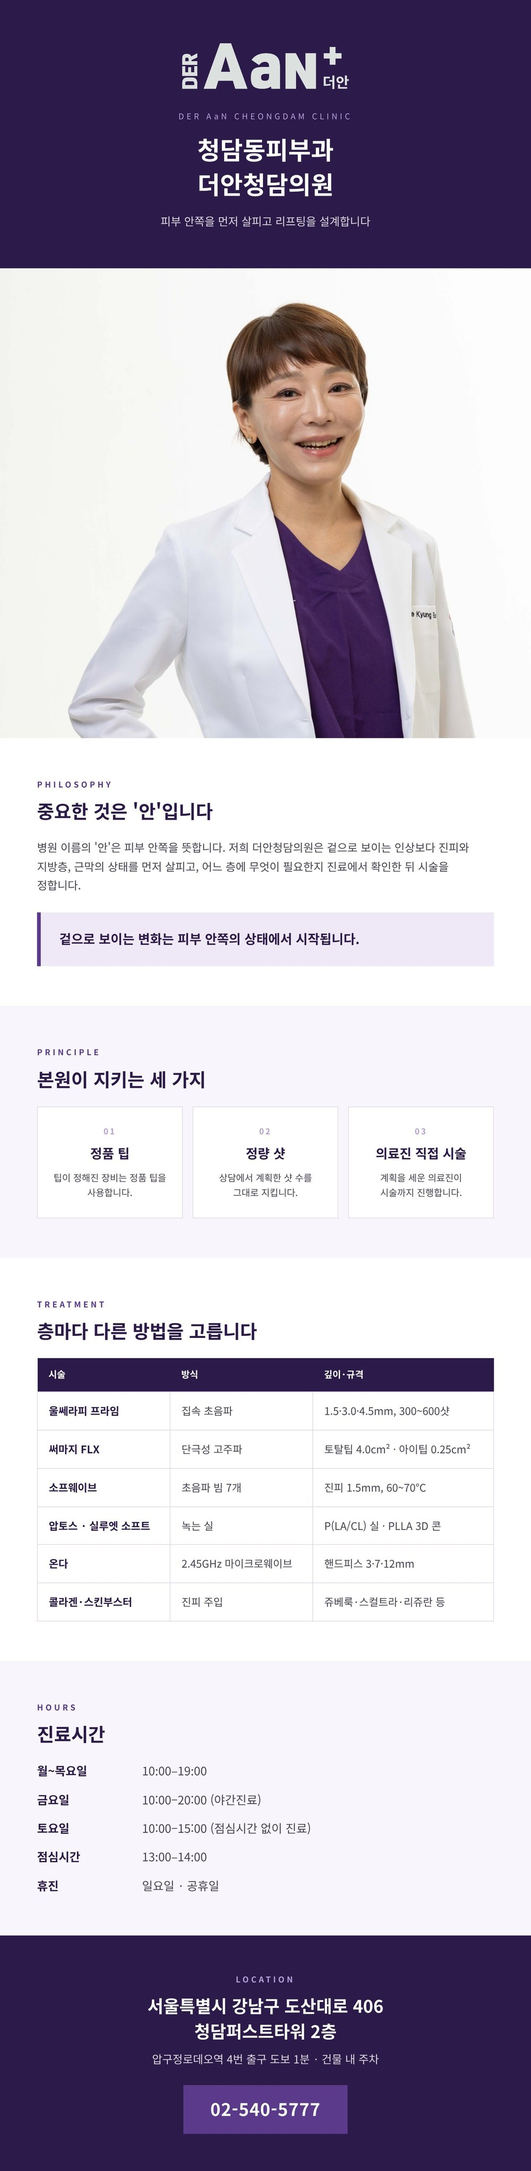
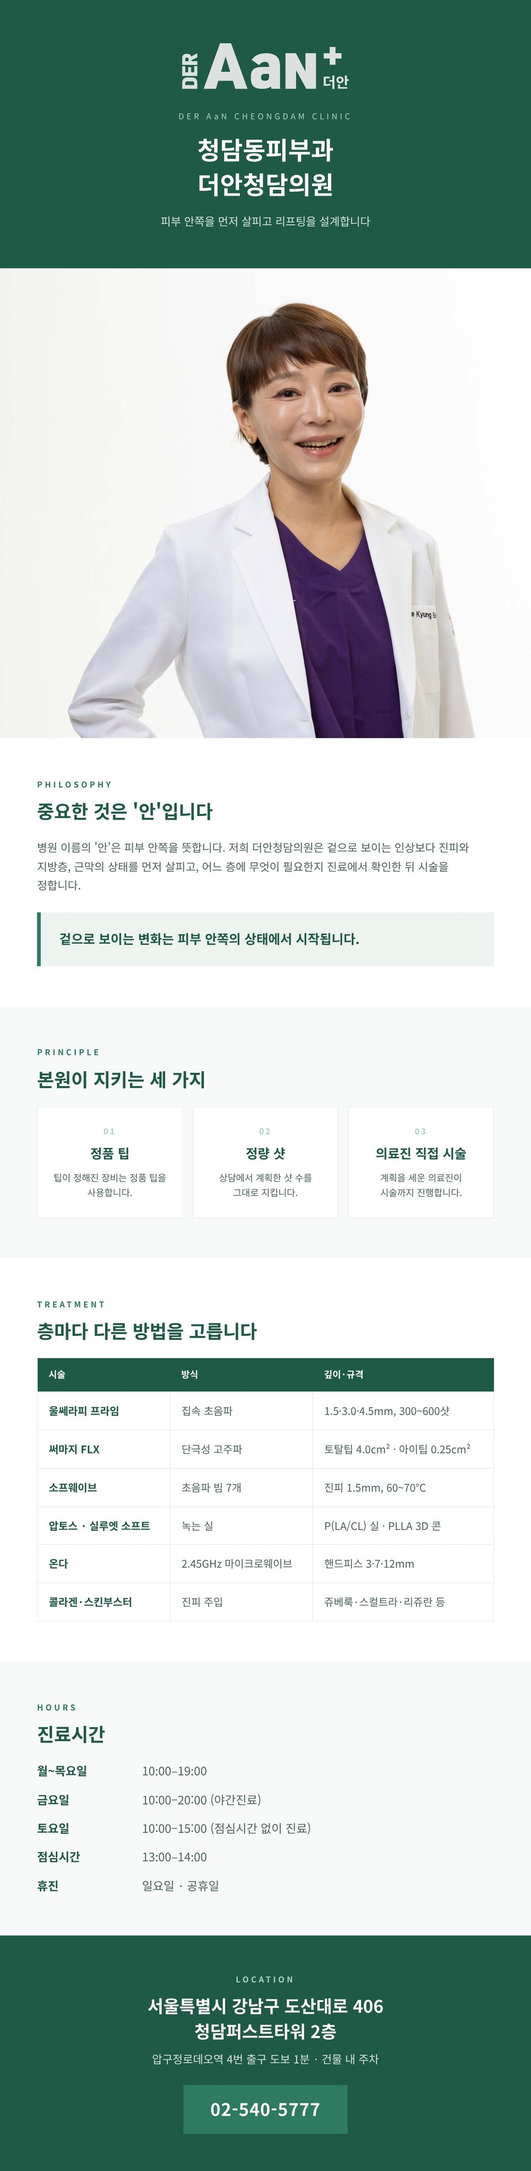
cheongdamskin-info.com: 색을 공식 홈페이지 녹색 계열로(테마·안내 긴 이미지) [skip ci]
Claude-Session: https://claude.ai/code/session_01RNxwkt2NVDZy2iSTnbKGK9

diff --git a/sites/cheongdamskin-info.com/public/index.html b/sites/cheongdamskin-info.com/public/index.html
@@ -9,7 +9,7 @@
 <link rel="canonical" href="https://cheongdamskin-info.com/">
 <meta name="robots" content="index,follow,max-image-preview:large">
 <meta name="application-name" content="청담동피부과ㅣ더안청담의원">
-<meta name="theme-color" content="#5b3a8c">
+<meta name="theme-color" content="#2e7b62">
 
 
 <meta property="og:type" content="website">
@@ -32,7 +32,7 @@
 <link rel="preconnect" href="https://fonts.gstatic.com" crossorigin>
 <link rel="stylesheet" href="https://fonts.googleapis.com/css2?family=Noto+Serif+KR:wght@500;600;700&display=swap">
 <link rel="stylesheet" as="style" crossorigin href="https://cdn.jsdelivr.net/gh/orioncactus/pretendard@v1.3.9/dist/web/variable/pretendardvariable-dynamic-subset.min.css">
-<link rel="stylesheet" href="/assets/site.css?v=7f1d7939">
+<link rel="stylesheet" href="/assets/site.css?v=5098e94f">
 <script type="application/ld+json">{"@context":"https://schema.org","@graph":[{"@type":"WebSite","@id":"https://cheongdamskin-info.com/#website","url":"https://cheongdamskin-info.com/","name":"청담동피부과ㅣ더안청담의원 | 더안청담의원","inLanguage":"ko-KR","publisher":{"@id":"https://cheongdamskin-info.com/#clinic"}},{"@type":"MedicalClinic","@id":"https://cheongdamskin-info.com/#clinic","name":"더안청담의원","alternateName":"DER AaN CHEONGDAM CLINIC","url":"https://cheongdamskin-info.com/","telephone":"+82-2-5405777","image":"https://cheongdamskin-info.com/images/card-1-860.jpg","address":{"@type":"PostalAddress","streetAddress":"도산대로 406 청담퍼스트타워 2층","addressLocality":"강남구","addressRegion":"서울특별시","addressCountry":"KR"},"medicalSpecialty":["Dermatology"],"openingHoursSpecification":[{"@type":"OpeningHoursSpecification","dayOfWeek":["Monday","Tuesday","Wednesday","Thursday"],"opens":"10:00","closes":"19:00"},{"@type":"OpeningHoursSpecification","dayOfWeek":["Friday"],"opens":"10:00","closes":"20:00"},{"@type":"OpeningHoursSpecification","dayOfWeek":["Saturday"],"opens":"10:00","closes":"15:00"}],"sameAs":["https://aanclinic.com/","https://map.naver.com/p/entry/place/1960345900"]},{"@type":"ItemList","name":"더안청담의원 주요 안내","itemListOrder":"https://schema.org/ItemListOrderAscending","numberOfItems":6,"itemListElement":[{"@type":"ListItem","position":1,"name":"청담동피부과 더안청담의원 1","url":"https://cheongdamskin-info.com/treatments/ulthera/","image":"https://cheongdamskin-info.com/images/card-1-860.jpg"},{"@type":"ListItem","position":2,"name":"청담동피부과 더안청담의원 2","url":"https://cheongdamskin-info.com/treatments/thermage/","image":"https://cheongdamskin-info.com/images/card-2-860.jpg"},{"@type":"ListItem","position":3,"name":"청담동피부과 더안청담의원 3","url":"https://cheongdamskin-info.com/treatments/sofwave/","image":"https://cheongdamskin-info.com/images/card-3-860.jpg"},{"@type":"ListItem","position":4,"name":"청담동피부과 더안청담의원 4","url":"https://cheongdamskin-info.com/treatments/thread-lifting/","image":"https://cheongdamskin-info.com/images/card-4-860.jpg"},{"@type":"ListItem","position":5,"name":"청담동피부과 더안청담의원 5","url":"https://cheongdamskin-info.com/treatments/onda-lifting/","image":"https://cheongdamskin-info.com/images/card-5-860.jpg"},{"@type":"ListItem","position":6,"name":"청담동피부과 더안청담의원 6","url":"https://cheongdamskin-info.com/treatments/skin-booster/","image":"https://cheongdamskin-info.com/images/card-6-860.jpg"}]}]}</script>
 
 </head>

diff --git a/sites/cheongdamskin-info.com/public/journal/skin-booster-01/index.html b/sites/cheongdamskin-info.com/public/journal/skin-booster-01/index.html
@@ -9,7 +9,7 @@
 <link rel="canonical" href="https://cheongdamskin-info.com/journal/skin-booster-01/">
 <meta name="robots" content="index,follow,max-image-preview:large">
 <meta name="application-name" content="청담동피부과ㅣ더안청담의원">
-<meta name="theme-color" content="#5b3a8c">
+<meta name="theme-color" content="#2e7b62">
 
 
 <meta property="og:type" content="article">
@@ -33,7 +33,7 @@
 <link rel="preconnect" href="https://fonts.gstatic.com" crossorigin>
 <link rel="stylesheet" href="https://fonts.googleapis.com/css2?family=Noto+Serif+KR:wght@500;600;700&display=swap">
 <link rel="stylesheet" as="style" crossorigin href="https://cdn.jsdelivr.net/gh/orioncactus/pretendard@v1.3.9/dist/web/variable/pretendardvariable-dynamic-subset.min.css">
-<link rel="stylesheet" href="/assets/site.css?v=7f1d7939">
+<link rel="stylesheet" href="/assets/site.css?v=5098e94f">
 <script type="application/ld+json">{"@context":"https://schema.org","@graph":[{"@type":"WebSite","@id":"https://cheongdamskin-info.com/#website","url":"https://cheongdamskin-info.com/","name":"청담동피부과ㅣ더안청담의원 | 더안청담의원","inLanguage":"ko-KR","publisher":{"@id":"https://cheongdamskin-info.com/#clinic"}},{"@type":"MedicalClinic","@id":"https://cheongdamskin-info.com/#clinic","name":"더안청담의원","alternateName":"DER AaN CHEONGDAM CLINIC","url":"https://cheongdamskin-info.com/","telephone":"+82-2-5405777","image":"https://cheongdamskin-info.com/images/og-default.jpg","address":{"@type":"PostalAddress","streetAddress":"도산대로 406 청담퍼스트타워 2층","addressLocality":"강남구","addressRegion":"서울특별시","addressCountry":"KR"},"medicalSpecialty":["Dermatology"],"openingHoursSpecification":[{"@type":"OpeningHoursSpecification","dayOfWeek":["Monday","Tuesday","Wednesday","Thursday"],"opens":"10:00","closes":"19:00"},{"@type":"OpeningHoursSpecification","dayOfWeek":["Friday"],"opens":"10:00","closes":"20:00"},{"@type":"OpeningHoursSpecification","dayOfWeek":["Saturday"],"opens":"10:00","closes":"15:00"}],"sameAs":["https://aanclinic.com/","https://map.naver.com/p/entry/place/1960345900"]},{"@type":"Article","headline":"청담스킨부스터 고르기 전에 알아 둘 콜라겐부스터와 스킨부스터의 차이와 시술 간격","description":"청담스킨부스터를 알아보시는 분께 콜라겐 생성을 돕는 제품과 피부 결·수분을 돕는 제품의 차이, 제품을 고르는 기준, 20~40분 시술과 2~4주 간격을 정리했습니다.","inLanguage":"ko-KR","mainEntityOfPage":{"@type":"WebPage","@id":"https://cheongdamskin-info.com/journal/skin-booster-01/"},"url":"https://cheongdamskin-info.com/journal/skin-booster-01/","image":"https://cheongdamskin-info.com/images/og-default.jpg","datePublished":"2026-11-28","dateModified":"2026-11-28","author":{"@type":"Organization","name":"더안청담의원 진료 안내"},"publisher":{"@id":"https://cheongdamskin-info.com/#clinic"},"articleSection":"스킨부스터"}]}</script>
 
 </head>

diff --git a/sites/cheongdamskin-info.com/public/journal/onda-lifting-01/index.html b/sites/cheongdamskin-info.com/public/journal/onda-lifting-01/index.html
@@ -9,7 +9,7 @@
 <link rel="canonical" href="https://cheongdamskin-info.com/journal/onda-lifting-01/">
 <meta name="robots" content="index,follow,max-image-preview:large">
 <meta name="application-name" content="청담동피부과ㅣ더안청담의원">
-<meta name="theme-color" content="#5b3a8c">
+<meta name="theme-color" content="#2e7b62">
 
 
 <meta property="og:type" content="article">
@@ -33,7 +33,7 @@
 <link rel="preconnect" href="https://fonts.gstatic.com" crossorigin>
 <link rel="stylesheet" href="https://fonts.googleapis.com/css2?family=Noto+Serif+KR:wght@500;600;700&display=swap">
 <link rel="stylesheet" as="style" crossorigin href="https://cdn.jsdelivr.net/gh/orioncactus/pretendard@v1.3.9/dist/web/variable/pretendardvariable-dynamic-subset.min.css">
-<link rel="stylesheet" href="/assets/site.css?v=7f1d7939">
+<link rel="stylesheet" href="/assets/site.css?v=5098e94f">
 <script type="application/ld+json">{"@context":"https://schema.org","@graph":[{"@type":"WebSite","@id":"https://cheongdamskin-info.com/#website","url":"https://cheongdamskin-info.com/","name":"청담동피부과ㅣ더안청담의원 | 더안청담의원","inLanguage":"ko-KR","publisher":{"@id":"https://cheongdamskin-info.com/#clinic"}},{"@type":"MedicalClinic","@id":"https://cheongdamskin-info.com/#clinic","name":"더안청담의원","alternateName":"DER AaN CHEONGDAM CLINIC","url":"https://cheongdamskin-info.com/","telephone":"+82-2-5405777","image":"https://cheongdamskin-info.com/images/og-default.jpg","address":{"@type":"PostalAddress","streetAddress":"도산대로 406 청담퍼스트타워 2층","addressLocality":"강남구","addressRegion":"서울특별시","addressCountry":"KR"},"medicalSpecialty":["Dermatology"],"openingHoursSpecification":[{"@type":"OpeningHoursSpecification","dayOfWeek":["Monday","Tuesday","Wednesday","Thursday"],"opens":"10:00","closes":"19:00"},{"@type":"OpeningHoursSpecification","dayOfWeek":["Friday"],"opens":"10:00","closes":"20:00"},{"@type":"OpeningHoursSpecification","dayOfWeek":["Saturday"],"opens":"10:00","closes":"15:00"}],"sameAs":["https://aanclinic.com/","https://map.naver.com/p/entry/place/1960345900"]},{"@type":"Article","headline":"청담온다리프팅 상담 전에 알아 둘 마이크로웨이브의 원리와 핸드피스 세 가지의 쓰임","description":"청담온다리프팅을 알아보시는 분께 2.45GHz 마이크로웨이브가 초음파·고주파와 어떻게 다른지, 3·7·12mm 핸드피스의 쓰임, 5°C 냉각과 2~4주 간격을 정리했습니다.","inLanguage":"ko-KR","mainEntityOfPage":{"@type":"WebPage","@id":"https://cheongdamskin-info.com/journal/onda-lifting-01/"},"url":"https://cheongdamskin-info.com/journal/onda-lifting-01/","image":"https://cheongdamskin-info.com/images/og-default.jpg","datePublished":"2026-11-28","dateModified":"2026-11-28","author":{"@type":"Organization","name":"더안청담의원 진료 안내"},"publisher":{"@id":"https://cheongdamskin-info.com/#clinic"},"articleSection":"온다리프팅"}]}</script>
 
 </head>

diff --git a/sites/cheongdamskin-info.com/public/journal/thread-lifting-01/index.html b/sites/cheongdamskin-info.com/public/journal/thread-lifting-01/index.html
@@ -9,7 +9,7 @@
 <link rel="canonical" href="https://cheongdamskin-info.com/journal/thread-lifting-01/">
 <meta name="robots" content="index,follow,max-image-preview:large">
 <meta name="application-name" content="청담동피부과ㅣ더안청담의원">
-<meta name="theme-color" content="#5b3a8c">
+<meta name="theme-color" content="#2e7b62">
 
 
 <meta property="og:type" content="article">
@@ -33,7 +33,7 @@
 <link rel="preconnect" href="https://fonts.gstatic.com" crossorigin>
 <link rel="stylesheet" href="https://fonts.googleapis.com/css2?family=Noto+Serif+KR:wght@500;600;700&display=swap">
 <link rel="stylesheet" as="style" crossorigin href="https://cdn.jsdelivr.net/gh/orioncactus/pretendard@v1.3.9/dist/web/variable/pretendardvariable-dynamic-subset.min.css">
-<link rel="stylesheet" href="/assets/site.css?v=7f1d7939">
+<link rel="stylesheet" href="/assets/site.css?v=5098e94f">
 <script type="application/ld+json">{"@context":"https://schema.org","@graph":[{"@type":"WebSite","@id":"https://cheongdamskin-info.com/#website","url":"https://cheongdamskin-info.com/","name":"청담동피부과ㅣ더안청담의원 | 더안청담의원","inLanguage":"ko-KR","publisher":{"@id":"https://cheongdamskin-info.com/#clinic"}},{"@type":"MedicalClinic","@id":"https://cheongdamskin-info.com/#clinic","name":"더안청담의원","alternateName":"DER AaN CHEONGDAM CLINIC","url":"https://cheongdamskin-info.com/","telephone":"+82-2-5405777","image":"https://cheongdamskin-info.com/images/og-default.jpg","address":{"@type":"PostalAddress","streetAddress":"도산대로 406 청담퍼스트타워 2층","addressLocality":"강남구","addressRegion":"서울특별시","addressCountry":"KR"},"medicalSpecialty":["Dermatology"],"openingHoursSpecification":[{"@type":"OpeningHoursSpecification","dayOfWeek":["Monday","Tuesday","Wednesday","Thursday"],"opens":"10:00","closes":"19:00"},{"@type":"OpeningHoursSpecification","dayOfWeek":["Friday"],"opens":"10:00","closes":"20:00"},{"@type":"OpeningHoursSpecification","dayOfWeek":["Saturday"],"opens":"10:00","closes":"15:00"}],"sameAs":["https://aanclinic.com/","https://map.naver.com/p/entry/place/1960345900"]},{"@type":"Article","headline":"청담실리프팅 받기 전에 확인할 압토스와 실루엣 소프트의 차이와 회복 기간","description":"청담실리프팅을 알아보시는 분께 압토스의 P(LA/CL) 실과 실루엣 소프트의 PLLA 3D 콘이 어떻게 다른지, 실의 길이와 콘 수, 국소 마취와 3~7일 회복을 정리했습니다.","inLanguage":"ko-KR","mainEntityOfPage":{"@type":"WebPage","@id":"https://cheongdamskin-info.com/journal/thread-lifting-01/"},"url":"https://cheongdamskin-info.com/journal/thread-lifting-01/","image":"https://cheongdamskin-info.com/images/og-default.jpg","datePublished":"2026-11-28","dateModified":"2026-11-28","author":{"@type":"Organization","name":"더안청담의원 진료 안내"},"publisher":{"@id":"https://cheongdamskin-info.com/#clinic"},"articleSection":"실리프팅"}]}</script>
 
 </head>

diff --git a/sites/cheongdamskin-info.com/public/journal/sofwave-01/index.html b/sites/cheongdamskin-info.com/public/journal/sofwave-01/index.html
@@ -9,7 +9,7 @@
 <link rel="canonical" href="https://cheongdamskin-info.com/journal/sofwave-01/">
 <meta name="robots" content="index,follow,max-image-preview:large">
 <meta name="application-name" content="청담동피부과ㅣ더안청담의원">
-<meta name="theme-color" content="#5b3a8c">
+<meta name="theme-color" content="#2e7b62">
 
 
 <meta property="og:type" content="article">
@@ -33,7 +33,7 @@
 <link rel="preconnect" href="https://fonts.gstatic.com" crossorigin>
 <link rel="stylesheet" href="https://fonts.googleapis.com/css2?family=Noto+Serif+KR:wght@500;600;700&display=swap">
 <link rel="stylesheet" as="style" crossorigin href="https://cdn.jsdelivr.net/gh/orioncactus/pretendard@v1.3.9/dist/web/variable/pretendardvariable-dynamic-subset.min.css">
-<link rel="stylesheet" href="/assets/site.css?v=7f1d7939">
+<link rel="stylesheet" href="/assets/site.css?v=5098e94f">
 <script type="application/ld+json">{"@context":"https://schema.org","@graph":[{"@type":"WebSite","@id":"https://cheongdamskin-info.com/#website","url":"https://cheongdamskin-info.com/","name":"청담동피부과ㅣ더안청담의원 | 더안청담의원","inLanguage":"ko-KR","publisher":{"@id":"https://cheongdamskin-info.com/#clinic"}},{"@type":"MedicalClinic","@id":"https://cheongdamskin-info.com/#clinic","name":"더안청담의원","alternateName":"DER AaN CHEONGDAM CLINIC","url":"https://cheongdamskin-info.com/","telephone":"+82-2-5405777","image":"https://cheongdamskin-info.com/images/og-default.jpg","address":{"@type":"PostalAddress","streetAddress":"도산대로 406 청담퍼스트타워 2층","addressLocality":"강남구","addressRegion":"서울특별시","addressCountry":"KR"},"medicalSpecialty":["Dermatology"],"openingHoursSpecification":[{"@type":"OpeningHoursSpecification","dayOfWeek":["Monday","Tuesday","Wednesday","Thursday"],"opens":"10:00","closes":"19:00"},{"@type":"OpeningHoursSpecification","dayOfWeek":["Friday"],"opens":"10:00","closes":"20:00"},{"@type":"OpeningHoursSpecification","dayOfWeek":["Saturday"],"opens":"10:00","closes":"15:00"}],"sameAs":["https://aanclinic.com/","https://map.naver.com/p/entry/place/1960345900"]},{"@type":"Article","headline":"청담소프웨이브 상담 전에 알아 둘 진피 1.5mm 깊이의 의미와 맞는 피부 고르는 기준","description":"청담소프웨이브를 알아보시는 분께 SUPERB 초음파 빔 7개가 진피 1.5mm 깊이를 데우는 원리, 얇은 피부에 계획하는 이유, 시술 시간과 4~12주 경과를 정리했습니다.","inLanguage":"ko-KR","mainEntityOfPage":{"@type":"WebPage","@id":"https://cheongdamskin-info.com/journal/sofwave-01/"},"url":"https://cheongdamskin-info.com/journal/sofwave-01/","image":"https://cheongdamskin-info.com/images/og-default.jpg","datePublished":"2026-11-28","dateModified":"2026-11-28","author":{"@type":"Organization","name":"더안청담의원 진료 안내"},"publisher":{"@id":"https://cheongdamskin-info.com/#clinic"},"articleSection":"소프웨이브"}]}</script>
 
 </head>

diff --git a/sites/cheongdamskin-info.com/public/journal/thermage-01/index.html b/sites/cheongdamskin-info.com/public/journal/thermage-01/index.html
@@ -9,7 +9,7 @@
 <link rel="canonical" href="https://cheongdamskin-info.com/journal/thermage-01/">
 <meta name="robots" content="index,follow,max-image-preview:large">
 <meta name="application-name" content="청담동피부과ㅣ더안청담의원">
-<meta name="theme-color" content="#5b3a8c">
+<meta name="theme-color" content="#2e7b62">
 
 
 <meta property="og:type" content="article">
@@ -33,7 +33,7 @@
 <link rel="preconnect" href="https://fonts.gstatic.com" crossorigin>
 <link rel="stylesheet" href="https://fonts.googleapis.com/css2?family=Noto+Serif+KR:wght@500;600;700&display=swap">
 <link rel="stylesheet" as="style" crossorigin href="https://cdn.jsdelivr.net/gh/orioncactus/pretendard@v1.3.9/dist/web/variable/pretendardvariable-dynamic-subset.min.css">
-<link rel="stylesheet" href="/assets/site.css?v=7f1d7939">
+<link rel="stylesheet" href="/assets/site.css?v=5098e94f">
 <script type="application/ld+json">{"@context":"https://schema.org","@graph":[{"@type":"WebSite","@id":"https://cheongdamskin-info.com/#website","url":"https://cheongdamskin-info.com/","name":"청담동피부과ㅣ더안청담의원 | 더안청담의원","inLanguage":"ko-KR","publisher":{"@id":"https://cheongdamskin-info.com/#clinic"}},{"@type":"MedicalClinic","@id":"https://cheongdamskin-info.com/#clinic","name":"더안청담의원","alternateName":"DER AaN CHEONGDAM CLINIC","url":"https://cheongdamskin-info.com/","telephone":"+82-2-5405777","image":"https://cheongdamskin-info.com/images/og-default.jpg","address":{"@type":"PostalAddress","streetAddress":"도산대로 406 청담퍼스트타워 2층","addressLocality":"강남구","addressRegion":"서울특별시","addressCountry":"KR"},"medicalSpecialty":["Dermatology"],"openingHoursSpecification":[{"@type":"OpeningHoursSpecification","dayOfWeek":["Monday","Tuesday","Wednesday","Thursday"],"opens":"10:00","closes":"19:00"},{"@type":"OpeningHoursSpecification","dayOfWeek":["Friday"],"opens":"10:00","closes":"20:00"},{"@type":"OpeningHoursSpecification","dayOfWeek":["Saturday"],"opens":"10:00","closes":"15:00"}],"sameAs":["https://aanclinic.com/","https://map.naver.com/p/entry/place/1960345900"]},{"@type":"Article","headline":"청담써마지 받기 전에 확인할 토탈팁과 아이팁의 차이, 300·600·900샷 고르는 법","description":"청담써마지를 알아보시는 분께 써마지 FLX의 고주파 원리, 4.0cm² 토탈팁과 0.25cm² 아이팁의 쓰임, 300·600·900샷의 기준과 시술 시간을 정리했습니다.","inLanguage":"ko-KR","mainEntityOfPage":{"@type":"WebPage","@id":"https://cheongdamskin-info.com/journal/thermage-01/"},"url":"https://cheongdamskin-info.com/journal/thermage-01/","image":"https://cheongdamskin-info.com/images/og-default.jpg","datePublished":"2026-11-28","dateModified":"2026-11-28","author":{"@type":"Organization","name":"더안청담의원 진료 안내"},"publisher":{"@id":"https://cheongdamskin-info.com/#clinic"},"articleSection":"써마지"}]}</script>
 
 </head>

diff --git a/sites/cheongdamskin-info.com/public/journal/ulthera-01/index.html b/sites/cheongdamskin-info.com/public/journal/ulthera-01/index.html
@@ -9,7 +9,7 @@
 <link rel="canonical" href="https://cheongdamskin-info.com/journal/ulthera-01/">
 <meta name="robots" content="index,follow,max-image-preview:large">
 <meta name="application-name" content="청담동피부과ㅣ더안청담의원">
-<meta name="theme-color" content="#5b3a8c">
+<meta name="theme-color" content="#2e7b62">
 
 
 <meta property="og:type" content="article">
@@ -33,7 +33,7 @@
 <link rel="preconnect" href="https://fonts.gstatic.com" crossorigin>
 <link rel="stylesheet" href="https://fonts.googleapis.com/css2?family=Noto+Serif+KR:wght@500;600;700&display=swap">
 <link rel="stylesheet" as="style" crossorigin href="https://cdn.jsdelivr.net/gh/orioncactus/pretendard@v1.3.9/dist/web/variable/pretendardvariable-dynamic-subset.min.css">
-<link rel="stylesheet" href="/assets/site.css?v=7f1d7939">
+<link rel="stylesheet" href="/assets/site.css?v=5098e94f">
 <script type="application/ld+json">{"@context":"https://schema.org","@graph":[{"@type":"WebSite","@id":"https://cheongdamskin-info.com/#website","url":"https://cheongdamskin-info.com/","name":"청담동피부과ㅣ더안청담의원 | 더안청담의원","inLanguage":"ko-KR","publisher":{"@id":"https://cheongdamskin-info.com/#clinic"}},{"@type":"MedicalClinic","@id":"https://cheongdamskin-info.com/#clinic","name":"더안청담의원","alternateName":"DER AaN CHEONGDAM CLINIC","url":"https://cheongdamskin-info.com/","telephone":"+82-2-5405777","image":"https://cheongdamskin-info.com/images/og-default.jpg","address":{"@type":"PostalAddress","streetAddress":"도산대로 406 청담퍼스트타워 2층","addressLocality":"강남구","addressRegion":"서울특별시","addressCountry":"KR"},"medicalSpecialty":["Dermatology"],"openingHoursSpecification":[{"@type":"OpeningHoursSpecification","dayOfWeek":["Monday","Tuesday","Wednesday","Thursday"],"opens":"10:00","closes":"19:00"},{"@type":"OpeningHoursSpecification","dayOfWeek":["Friday"],"opens":"10:00","closes":"20:00"},{"@type":"OpeningHoursSpecification","dayOfWeek":["Saturday"],"opens":"10:00","closes":"15:00"}],"sameAs":["https://aanclinic.com/","https://map.naver.com/p/entry/place/1960345900"]},{"@type":"Article","headline":"청담울쎄라 상담 전에 알아 둘 조사 깊이 세 가지와 샷 수를 정하는 기준","description":"청담울쎄라를 알아보시는 분께 울쎄라피 프라임의 1.5·3.0·4.5mm 깊이가 각각 어느 층인지, 300~600샷이 어떻게 정해지는지, 마취와 경과를 정리했습니다.","inLanguage":"ko-KR","mainEntityOfPage":{"@type":"WebPage","@id":"https://cheongdamskin-info.com/journal/ulthera-01/"},"url":"https://cheongdamskin-info.com/journal/ulthera-01/","image":"https://cheongdamskin-info.com/images/og-default.jpg","datePublished":"2026-11-28","dateModified":"2026-11-28","author":{"@type":"Organization","name":"더안청담의원 진료 안내"},"publisher":{"@id":"https://cheongdamskin-info.com/#clinic"},"articleSection":"울쎄라"}]}</script>
 
 </head>

diff --git a/sites/cheongdamskin-info.com/public/treatments/skin-booster/index.html b/sites/cheongdamskin-info.com/public/treatments/skin-booster/index.html
@@ -9,7 +9,7 @@
 <link rel="canonical" href="https://cheongdamskin-info.com/treatments/skin-booster/">
 <meta name="robots" content="index,follow,max-image-preview:large">
 <meta name="application-name" content="청담동피부과ㅣ더안청담의원">
-<meta name="theme-color" content="#5b3a8c">
+<meta name="theme-color" content="#2e7b62">
 
 
 <meta property="og:type" content="website">
@@ -32,7 +32,7 @@
 <link rel="preconnect" href="https://fonts.gstatic.com" crossorigin>
 <link rel="stylesheet" href="https://fonts.googleapis.com/css2?family=Noto+Serif+KR:wght@500;600;700&display=swap">
 <link rel="stylesheet" as="style" crossorigin href="https://cdn.jsdelivr.net/gh/orioncactus/pretendard@v1.3.9/dist/web/variable/pretendardvariable-dynamic-subset.min.css">
-<link rel="stylesheet" href="/assets/site.css?v=7f1d7939">
+<link rel="stylesheet" href="/assets/site.css?v=5098e94f">
 <script type="application/ld+json">{"@context":"https://schema.org","@graph":[{"@type":"WebSite","@id":"https://cheongdamskin-info.com/#website","url":"https://cheongdamskin-info.com/","name":"청담동피부과ㅣ더안청담의원 | 더안청담의원","inLanguage":"ko-KR","publisher":{"@id":"https://cheongdamskin-info.com/#clinic"}},{"@type":"MedicalClinic","@id":"https://cheongdamskin-info.com/#clinic","name":"더안청담의원","alternateName":"DER AaN CHEONGDAM CLINIC","url":"https://cheongdamskin-info.com/","telephone":"+82-2-5405777","image":"https://cheongdamskin-info.com/images/card-6-860.jpg","address":{"@type":"PostalAddress","streetAddress":"도산대로 406 청담퍼스트타워 2층","addressLocality":"강남구","addressRegion":"서울특별시","addressCountry":"KR"},"medicalSpecialty":["Dermatology"],"openingHoursSpecification":[{"@type":"OpeningHoursSpecification","dayOfWeek":["Monday","Tuesday","Wednesday","Thursday"],"opens":"10:00","closes":"19:00"},{"@type":"OpeningHoursSpecification","dayOfWeek":["Friday"],"opens":"10:00","closes":"20:00"},{"@type":"OpeningHoursSpecification","dayOfWeek":["Saturday"],"opens":"10:00","closes":"15:00"}],"sameAs":["https://aanclinic.com/","https://map.naver.com/p/entry/place/1960345900"]},{"@type":"MedicalWebPage","name":"청담스킨부스터 종류·시술 시간·간격 안내","url":"https://cheongdamskin-info.com/treatments/skin-booster/","about":{"@type":"MedicalProcedure","name":"스킨부스터"},"isPartOf":{"@id":"https://cheongdamskin-info.com/#website"},"image":"https://cheongdamskin-info.com/images/card-6-860.jpg","primaryImageOfPage":{"@type":"ImageObject","url":"https://cheongdamskin-info.com/images/card-6-860.jpg","width":860,"height":860,"caption":"더안청담의원 청담스킨부스터 상담 안내 이미지"}}]}</script>
 
 </head>

diff --git a/sites/cheongdamskin-info.com/public/treatments/onda-lifting/index.html b/sites/cheongdamskin-info.com/public/treatments/onda-lifting/index.html
@@ -9,7 +9,7 @@
 <link rel="canonical" href="https://cheongdamskin-info.com/treatments/onda-lifting/">
 <meta name="robots" content="index,follow,max-image-preview:large">
 <meta name="application-name" content="청담동피부과ㅣ더안청담의원">
-<meta name="theme-color" content="#5b3a8c">
+<meta name="theme-color" content="#2e7b62">
 
 
 <meta property="og:type" content="website">
@@ -32,7 +32,7 @@
 <link rel="preconnect" href="https://fonts.gstatic.com" crossorigin>
 <link rel="stylesheet" href="https://fonts.googleapis.com/css2?family=Noto+Serif+KR:wght@500;600;700&display=swap">
 <link rel="stylesheet" as="style" crossorigin href="https://cdn.jsdelivr.net/gh/orioncactus/pretendard@v1.3.9/dist/web/variable/pretendardvariable-dynamic-subset.min.css">
-<link rel="stylesheet" href="/assets/site.css?v=7f1d7939">
+<link rel="stylesheet" href="/assets/site.css?v=5098e94f">
 <script type="application/ld+json">{"@context":"https://schema.org","@graph":[{"@type":"WebSite","@id":"https://cheongdamskin-info.com/#website","url":"https://cheongdamskin-info.com/","name":"청담동피부과ㅣ더안청담의원 | 더안청담의원","inLanguage":"ko-KR","publisher":{"@id":"https://cheongdamskin-info.com/#clinic"}},{"@type":"MedicalClinic","@id":"https://cheongdamskin-info.com/#clinic","name":"더안청담의원","alternateName":"DER AaN CHEONGDAM CLINIC","url":"https://cheongdamskin-info.com/","telephone":"+82-2-5405777","image":"https://cheongdamskin-info.com/images/card-5-860.jpg","address":{"@type":"PostalAddress","streetAddress":"도산대로 406 청담퍼스트타워 2층","addressLocality":"강남구","addressRegion":"서울특별시","addressCountry":"KR"},"medicalSpecialty":["Dermatology"],"openingHoursSpecification":[{"@type":"OpeningHoursSpecification","dayOfWeek":["Monday","Tuesday","Wednesday","Thursday"],"opens":"10:00","closes":"19:00"},{"@type":"OpeningHoursSpecification","dayOfWeek":["Friday"],"opens":"10:00","closes":"20:00"},{"@type":"OpeningHoursSpecification","dayOfWeek":["Saturday"],"opens":"10:00","closes":"15:00"}],"sameAs":["https://aanclinic.com/","https://map.naver.com/p/entry/place/1960345900"]},{"@type":"MedicalWebPage","name":"청담온다리프팅 원리·핸드피스·간격 안내","url":"https://cheongdamskin-info.com/treatments/onda-lifting/","about":{"@type":"MedicalProcedure","name":"온다리프팅"},"isPartOf":{"@id":"https://cheongdamskin-info.com/#website"},"image":"https://cheongdamskin-info.com/images/card-5-860.jpg","primaryImageOfPage":{"@type":"ImageObject","url":"https://cheongdamskin-info.com/images/card-5-860.jpg","width":860,"height":860,"caption":"더안청담의원 청담온다리프팅 상담 안내 이미지"}}]}</script>
 
 </head>

diff --git a/sites/cheongdamskin-info.com/public/treatments/thread-lifting/index.html b/sites/cheongdamskin-info.com/public/treatments/thread-lifting/index.html
@@ -9,7 +9,7 @@
 <link rel="canonical" href="https://cheongdamskin-info.com/treatments/thread-lifting/">
 <meta name="robots" content="index,follow,max-image-preview:large">
 <meta name="application-name" content="청담동피부과ㅣ더안청담의원">
-<meta name="theme-color" content="#5b3a8c">
+<meta name="theme-color" content="#2e7b62">
 
 
 <meta property="og:type" content="website">
@@ -32,7 +32,7 @@
 <link rel="preconnect" href="https://fonts.gstatic.com" crossorigin>
 <link rel="stylesheet" href="https://fonts.googleapis.com/css2?family=Noto+Serif+KR:wght@500;600;700&display=swap">
 <link rel="stylesheet" as="style" crossorigin href="https://cdn.jsdelivr.net/gh/orioncactus/pretendard@v1.3.9/dist/web/variable/pretendardvariable-dynamic-subset.min.css">
-<link rel="stylesheet" href="/assets/site.css?v=7f1d7939">
+<link rel="stylesheet" href="/assets/site.css?v=5098e94f">
 <script type="application/ld+json">{"@context":"https://schema.org","@graph":[{"@type":"WebSite","@id":"https://cheongdamskin-info.com/#website","url":"https://cheongdamskin-info.com/","name":"청담동피부과ㅣ더안청담의원 | 더안청담의원","inLanguage":"ko-KR","publisher":{"@id":"https://cheongdamskin-info.com/#clinic"}},{"@type":"MedicalClinic","@id":"https://cheongdamskin-info.com/#clinic","name":"더안청담의원","alternateName":"DER AaN CHEONGDAM CLINIC","url":"https://cheongdamskin-info.com/","telephone":"+82-2-5405777","image":"https://cheongdamskin-info.com/images/card-4-860.jpg","address":{"@type":"PostalAddress","streetAddress":"도산대로 406 청담퍼스트타워 2층","addressLocality":"강남구","addressRegion":"서울특별시","addressCountry":"KR"},"medicalSpecialty":["Dermatology"],"openingHoursSpecification":[{"@type":"OpeningHoursSpecification","dayOfWeek":["Monday","Tuesday","Wednesday","Thursday"],"opens":"10:00","closes":"19:00"},{"@type":"OpeningHoursSpecification","dayOfWeek":["Friday"],"opens":"10:00","closes":"20:00"},{"@type":"OpeningHoursSpecification","dayOfWeek":["Saturday"],"opens":"10:00","closes":"15:00"}],"sameAs":["https://aanclinic.com/","https://map.naver.com/p/entry/place/1960345900"]},{"@type":"MedicalWebPage","name":"청담실리프팅 압토스·실루엣 소프트 안내","url":"https://cheongdamskin-info.com/treatments/thread-lifting/","about":{"@type":"MedicalProcedure","name":"실리프팅"},"isPartOf":{"@id":"https://cheongdamskin-info.com/#website"},"image":"https://cheongdamskin-info.com/images/card-4-860.jpg","primaryImageOfPage":{"@type":"ImageObject","url":"https://cheongdamskin-info.com/images/card-4-860.jpg","width":860,"height":860,"caption":"더안청담의원 청담실리프팅 상담 안내 이미지"}}]}</script>
 
 </head>

diff --git a/sites/cheongdamskin-info.com/public/treatments/sofwave/index.html b/sites/cheongdamskin-info.com/public/treatments/sofwave/index.html
@@ -9,7 +9,7 @@
 <link rel="canonical" href="https://cheongdamskin-info.com/treatments/sofwave/">
 <meta name="robots" content="index,follow,max-image-preview:large">
 <meta name="application-name" content="청담동피부과ㅣ더안청담의원">
-<meta name="theme-color" content="#5b3a8c">
+<meta name="theme-color" content="#2e7b62">
 
 
 <meta property="og:type" content="website">
@@ -32,7 +32,7 @@
 <link rel="preconnect" href="https://fonts.gstatic.com" crossorigin>
 <link rel="stylesheet" href="https://fonts.googleapis.com/css2?family=Noto+Serif+KR:wght@500;600;700&display=swap">
 <link rel="stylesheet" as="style" crossorigin href="https://cdn.jsdelivr.net/gh/orioncactus/pretendard@v1.3.9/dist/web/variable/pretendardvariable-dynamic-subset.min.css">
-<link rel="stylesheet" href="/assets/site.css?v=7f1d7939">
+<link rel="stylesheet" href="/assets/site.css?v=5098e94f">
 <script type="application/ld+json">{"@context":"https://schema.org","@graph":[{"@type":"WebSite","@id":"https://cheongdamskin-info.com/#website","url":"https://cheongdamskin-info.com/","name":"청담동피부과ㅣ더안청담의원 | 더안청담의원","inLanguage":"ko-KR","publisher":{"@id":"https://cheongdamskin-info.com/#clinic"}},{"@type":"MedicalClinic","@id":"https://cheongdamskin-info.com/#clinic","name":"더안청담의원","alternateName":"DER AaN CHEONGDAM CLINIC","url":"https://cheongdamskin-info.com/","telephone":"+82-2-5405777","image":"https://cheongdamskin-info.com/images/card-3-860.jpg","address":{"@type":"PostalAddress","streetAddress":"도산대로 406 청담퍼스트타워 2층","addressLocality":"강남구","addressRegion":"서울특별시","addressCountry":"KR"},"medicalSpecialty":["Dermatology"],"openingHoursSpecification":[{"@type":"OpeningHoursSpecification","dayOfWeek":["Monday","Tuesday","Wednesday","Thursday"],"opens":"10:00","closes":"19:00"},{"@type":"OpeningHoursSpecification","dayOfWeek":["Friday"],"opens":"10:00","closes":"20:00"},{"@type":"OpeningHoursSpecification","dayOfWeek":["Saturday"],"opens":"10:00","closes":"15:00"}],"sameAs":["https://aanclinic.com/","https://map.naver.com/p/entry/place/1960345900"]},{"@type":"MedicalWebPage","name":"청담소프웨이브 원리·시술 시간·경과 안내","url":"https://cheongdamskin-info.com/treatments/sofwave/","about":{"@type":"MedicalProcedure","name":"소프웨이브"},"isPartOf":{"@id":"https://cheongdamskin-info.com/#website"},"image":"https://cheongdamskin-info.com/images/card-3-860.jpg","primaryImageOfPage":{"@type":"ImageObject","url":"https://cheongdamskin-info.com/images/card-3-860.jpg","width":860,"height":860,"caption":"더안청담의원 청담소프웨이브 상담 안내 이미지"}}]}</script>
 
 </head>

diff --git a/sites/cheongdamskin-info.com/public/treatments/ulthera/index.html b/sites/cheongdamskin-info.com/public/treatments/ulthera/index.html
@@ -9,7 +9,7 @@
 <link rel="canonical" href="https://cheongdamskin-info.com/treatments/ulthera/">
 <meta name="robots" content="index,follow,max-image-preview:large">
 <meta name="application-name" content="청담동피부과ㅣ더안청담의원">
-<meta name="theme-color" content="#5b3a8c">
+<meta name="theme-color" content="#2e7b62">
 
 
 <meta property="og:type" content="website">
@@ -32,7 +32,7 @@
 <link rel="preconnect" href="https://fonts.gstatic.com" crossorigin>
 <link rel="stylesheet" href="https://fonts.googleapis.com/css2?family=Noto+Serif+KR:wght@500;600;700&display=swap">
 <link rel="stylesheet" as="style" crossorigin href="https://cdn.jsdelivr.net/gh/orioncactus/pretendard@v1.3.9/dist/web/variable/pretendardvariable-dynamic-subset.min.css">
-<link rel="stylesheet" href="/assets/site.css?v=7f1d7939">
+<link rel="stylesheet" href="/assets/site.css?v=5098e94f">
 <script type="application/ld+json">{"@context":"https://schema.org","@graph":[{"@type":"WebSite","@id":"https://cheongdamskin-info.com/#website","url":"https://cheongdamskin-info.com/","name":"청담동피부과ㅣ더안청담의원 | 더안청담의원","inLanguage":"ko-KR","publisher":{"@id":"https://cheongdamskin-info.com/#clinic"}},{"@type":"MedicalClinic","@id":"https://cheongdamskin-info.com/#clinic","name":"더안청담의원","alternateName":"DER AaN CHEONGDAM CLINIC","url":"https://cheongdamskin-info.com/","telephone":"+82-2-5405777","image":"https://cheongdamskin-info.com/images/card-1-860.jpg","address":{"@type":"PostalAddress","streetAddress":"도산대로 406 청담퍼스트타워 2층","addressLocality":"강남구","addressRegion":"서울특별시","addressCountry":"KR"},"medicalSpecialty":["Dermatology"],"openingHoursSpecification":[{"@type":"OpeningHoursSpecification","dayOfWeek":["Monday","Tuesday","Wednesday","Thursday"],"opens":"10:00","closes":"19:00"},{"@type":"OpeningHoursSpecification","dayOfWeek":["Friday"],"opens":"10:00","closes":"20:00"},{"@type":"OpeningHoursSpecification","dayOfWeek":["Saturday"],"opens":"10:00","closes":"15:00"}],"sameAs":["https://aanclinic.com/","https://map.naver.com/p/entry/place/1960345900"]},{"@type":"MedicalWebPage","name":"청담울쎄라 울쎄라피 프라임 원리·과정 안내","url":"https://cheongdamskin-info.com/treatments/ulthera/","about":{"@type":"MedicalProcedure","name":"울쎄라"},"isPartOf":{"@id":"https://cheongdamskin-info.com/#website"},"image":"https://cheongdamskin-info.com/images/card-1-860.jpg","primaryImageOfPage":{"@type":"ImageObject","url":"https://cheongdamskin-info.com/images/card-1-860.jpg","width":860,"height":860,"caption":"더안청담의원 청담울쎄라 상담 안내 이미지"}}]}</script>
 
 </head>
